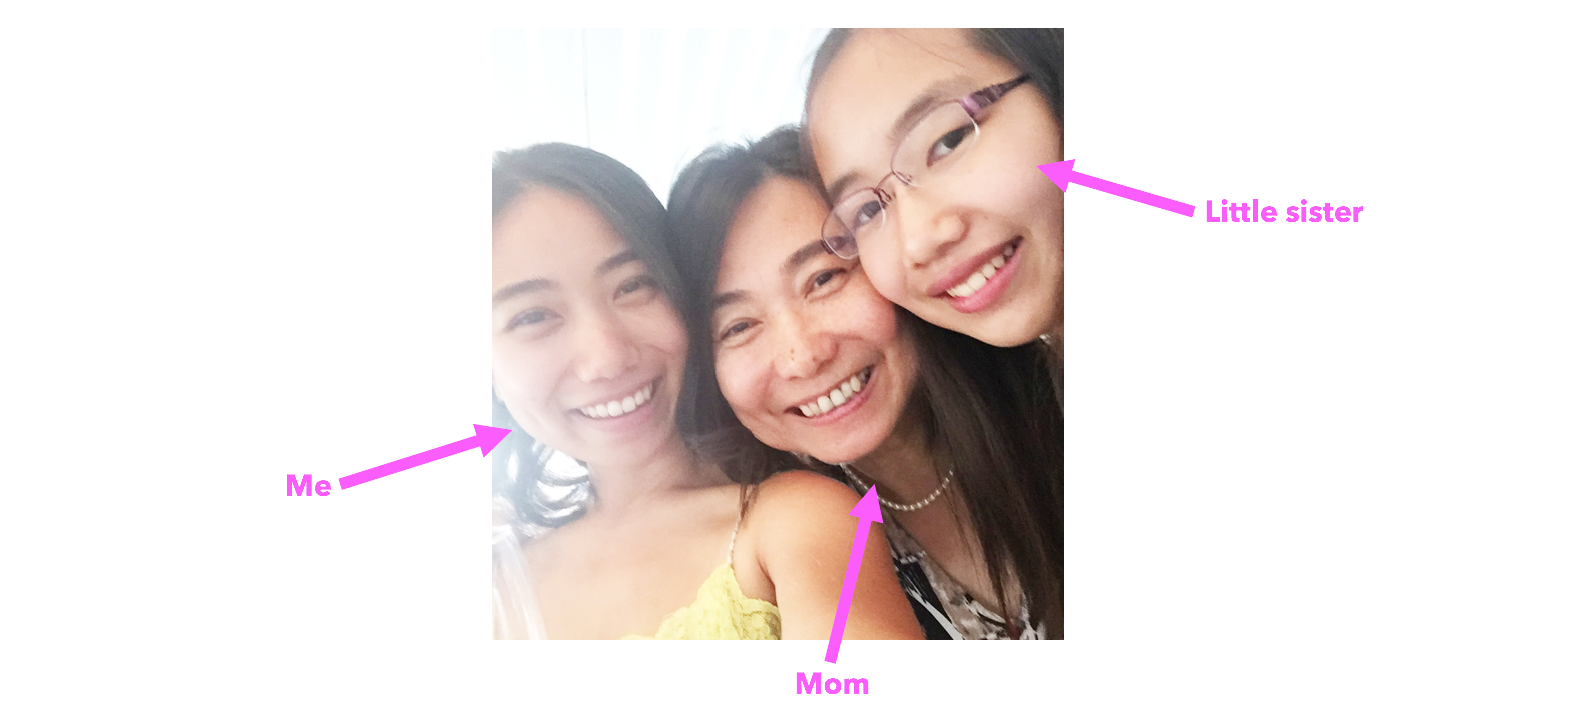
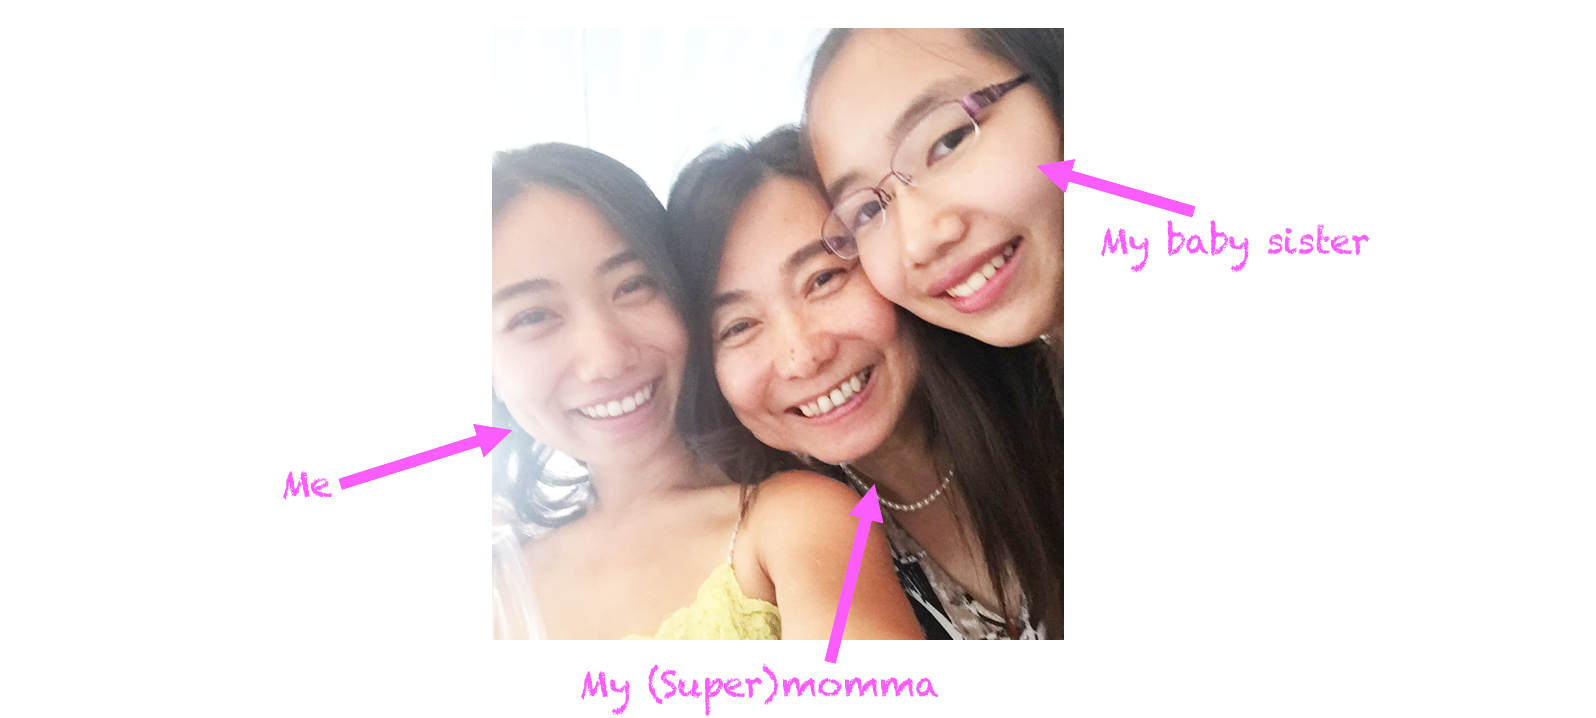
Hexo deploying to bettycakez.github.io

Changed region(s): [[0.6754, 0.2758, 0.8596, 0.3677], [0.3684, 0.9192, 0.5833, 1.0], [0.1842, 0.6435, 0.2149, 0.7047]]

diff --git a/2017/11/01/2017-11-01 role-models-in-STEM/index.html b/2017/11/01/2017-11-01 role-models-in-STEM/index.html
@@ -20,7 +20,7 @@
 
     <!--Open Graph Title-->
     
-        <meta property="og:title" content="Supermom, Programmer Extraordinaire"/>
+        <meta property="og:title" content="My Role Mom-del"/>
     
 
     <!--Open Graph Description-->
@@ -42,7 +42,7 @@
 
     <!-- Title -->
     
-    <title>Supermom, Programmer Extraordinaire - Betty Chang</title>
+    <title>My Role Mom-del - Betty Chang</title>
 
     <!-- Bootstrap Core CSS -->
     <link href="//maxcdn.bootstrapcdn.com/bootstrap/3.3.6/css/bootstrap.min.css" rel="stylesheet"/>
@@ -152,11 +152,11 @@
                 <div class="col-lg-8 col-lg-offset-2 col-md-10 col-md-offset-1">
                     <div class="post-heading">
                         <h1>
-                            Supermom, Programmer Extraordinaire
+                            My Role Mom-del
                         </h1>
                         
                             <h2 class="post-subheading">
-                                Role models in STEM
+                                A leading lady in STEM
                             </h2>
                             
                                 <span class="meta">
@@ -183,7 +183,7 @@
 
                                     <!-- Post Main Content -->
                                     <div class="col-lg-8 col-lg-offset-2 col-md-10 col-md-offset-1">
-                                        <p>Today, as per most days, I called my little sister on my way home. She had spent the day shadowing my Momma as part of Take Your Kids To Work Day and exclaimed excitedly, “Mom’s job is so cool!”</p>
+                                        <p>Today, as per most days, I called my little sister on my way home. She had spent the day shadowing my Momma as part of Take Your Kids To Work Day and exclaimed excitedly, “Momma’s job is so cool!”</p>
 <p>My Momma is a software engineer at one of Canada’s leading banks, a computer science graduate of Shanghai’s Jiaotong University, and also my biggest role model, caregiver, and supporter. But what’s more, she’s also a role model to my 14-year-old teenage sister and to other girls and young women aspiring to become an engineer and empowered leader in the workplace.</p>
 <p>So as my sister passed the phone off to Momma, citing she “had too much homework to finish”, I decided to partake in Take Your Kids to Work Day <strong>virtually</strong> by asking my Momma a few questions on her career as a fabulous women in STEM - Science, Technology, Engineering and Math. </p>
 <p><img src="/img/2017-11-01-role-models-in-STEM.png" alt="Role Models in STEM"></p>
@@ -193,7 +193,7 @@
 <p>I was very lucky that in my first job, my supervisor, a very smart and high-ranking man in the company, recognized and vouched for my good work <a href="http://www.heforshe.org/en" target="_blank" rel="external">(#HeforShe)</a> and I was given opportunities to go on work trips in Germany and in the UK in my first year, and promoted after my second. Whether in STEM or in any stage of your career or education, a good supervisor, mentor, and culture makes all the difference and as such, it is important to cultivate and invest in those relationships as well. </p>
 <p><span style="color: #0098CB"><strong><em>How is the culture at your current workplace for women?</em></strong></span><br>My company right now is very different from the first company I worked at. I immigrated to Canada in ‘89, studied English and took some additional CS courses at a local college while working a few customer service jobs, and afterwards found a programming role in the finance industry. I’ve been working as an engineer at big banks ever since, through meeting my husband and having my two beautiful children. The bank I currently work at has a great culture for women for a few reasons. They have great policies in place for maternity leave (which I made good use of when giving birth to my second daughter). Our leadership makes a conscious effort in promoting women into high-level positions, and at lower levels, women are well represented - in fact, my manager, director, and VP are all women. And within programming roles, I would say there’s a 40:60 ratio of girls to boys.  </p>
 <p><span style="color: #0098CB"><strong><em>What do you think needs to be done to reach gender parity in STEM fields?</em></strong></span><br>It starts with equal access to opportunities. I hear often that the reason why there aren’t as many girls in STEM education is because girls just don’t want to be engineers, and this simply isn’t true. There are many factors - political and social - that deter girls from even thinking about a career in STEM. So it starts with girls seeing STEM careers as not just careers for boys. Teachers, role models, and other influencers of young girls should foster and encourage interest and learning of STEM subjects at an early age. Teachers play such a big influence. You don’t know how often my children say they did well in a course because they liked their teacher. So educators, make curricula interesting so girls and boys can explore!</p>
-<p><span style="color: #0098CB"><strong><em>What advice would you give to girls interested in pursuing a STEM career?</em></strong></span><br>It’s true, women can do anything that men can do. So be confident, believe in yourself, and try out different courses, internships, and opportunities in STEM. Explore! Lastly, having a support system of curious, like-minded girl friends (and boy friends) will help you get brave through the challenges and barriers ahead!</p>
+<p><span style="color: #0098CB"><strong><em>What advice would you give to girls interested in pursuing a STEM career?</em></strong></span><br>It’s true, <strong>women can do anything that men can do.</strong> So be confident, believe in yourself, and try out different courses, internships, and opportunities in STEM. Explore! Lastly, having a support system of curious, like-minded girl friends (and boy friends) will help you get brave through the challenges and barriers ahead!</p>
 
 
                                             

diff --git a/archives/index.html b/archives/index.html
@@ -40,7 +40,7 @@
 
     <!-- Title -->
     
-    <title>Archives - Betty Chang</title>
+    <title>Archiv - Betty Chang</title>
 
     <!-- Bootstrap Core CSS -->
     <link href="//maxcdn.bootstrapcdn.com/bootstrap/3.3.6/css/bootstrap.min.css" rel="stylesheet"/>
@@ -150,7 +150,7 @@
         <div class="row">
             <div class="col-lg-8 col-lg-offset-2 col-md-10 col-md-offset-1">
                 <div class="site-heading">
-                    <h1>Archives</h1>
+                    <h1>Archiv</h1>
                 </div>
             </div>
         </div>
@@ -165,7 +165,7 @@
                 <div class="post-preview">
     <a href="/2017/11/01/2017-11-01 role-models-in-STEM/">
         <h1 class="post-title archive">
-            Supermom, Programmer Extraordinaire
+            My Role Mom-del
         </h1>
     </a>
     <p class="post-meta archive">

diff --git a/archives/2017/11/index.html b/archives/2017/11/index.html
@@ -40,7 +40,7 @@
 
     <!-- Title -->
     
-    <title>Archives: 2017/11 - Betty Chang</title>
+    <title>Archiv: 2017/11 - Betty Chang</title>
 
     <!-- Bootstrap Core CSS -->
     <link href="//maxcdn.bootstrapcdn.com/bootstrap/3.3.6/css/bootstrap.min.css" rel="stylesheet"/>
@@ -165,7 +165,7 @@
                 <div class="post-preview">
     <a href="/2017/11/01/2017-11-01 role-models-in-STEM/">
         <h1 class="post-title archive">
-            Supermom, Programmer Extraordinaire
+            My Role Mom-del
         </h1>
     </a>
     <p class="post-meta archive">

diff --git a/archives/page/2/index.html b/archives/page/2/index.html
@@ -40,7 +40,7 @@
 
     <!-- Title -->
     
-    <title>page - Archives - Betty Chang</title>
+    <title>page - Archiv - Betty Chang</title>
 
     <!-- Bootstrap Core CSS -->
     <link href="//maxcdn.bootstrapcdn.com/bootstrap/3.3.6/css/bootstrap.min.css" rel="stylesheet"/>
@@ -150,7 +150,7 @@
         <div class="row">
             <div class="col-lg-8 col-lg-offset-2 col-md-10 col-md-offset-1">
                 <div class="site-heading">
-                    <h1>Archives</h1>
+                    <h1>Archiv</h1>
                 </div>
             </div>
         </div>

diff --git a/archives/2017/index.html b/archives/2017/index.html
@@ -40,7 +40,7 @@
 
     <!-- Title -->
     
-    <title>Archives: 2017 - Betty Chang</title>
+    <title>Archiv: 2017 - Betty Chang</title>
 
     <!-- Bootstrap Core CSS -->
     <link href="//maxcdn.bootstrapcdn.com/bootstrap/3.3.6/css/bootstrap.min.css" rel="stylesheet"/>
@@ -165,7 +165,7 @@
                 <div class="post-preview">
     <a href="/2017/11/01/2017-11-01 role-models-in-STEM/">
         <h1 class="post-title archive">
-            Supermom, Programmer Extraordinaire
+            My Role Mom-del
         </h1>
     </a>
     <p class="post-meta archive">

diff --git a/blog/index.html b/blog/index.html
@@ -148,11 +148,11 @@
                 <div class="post-preview">
     <a href="/2017/11/01/2017-11-01 role-models-in-STEM/">
         <h2 class="post-title">
-            Supermom, Programmer Extraordinaire
+            My Role Mom-del
         </h2>
         
             <h3 class="post-subtitle">
-                Role models in STEM
+                A leading lady in STEM
             </h3>
         
     </a>

diff --git a/archives/2017/page/2/index.html b/archives/2017/page/2/index.html
@@ -40,7 +40,7 @@
 
     <!-- Title -->
     
-    <title>page - Archives: 2017 - Betty Chang</title>
+    <title>page - Archiv: 2017 - Betty Chang</title>
 
     <!-- Bootstrap Core CSS -->
     <link href="//maxcdn.bootstrapcdn.com/bootstrap/3.3.6/css/bootstrap.min.css" rel="stylesheet"/>

diff --git a/archives/2017/10/index.html b/archives/2017/10/index.html
@@ -40,7 +40,7 @@
 
     <!-- Title -->
     
-    <title>Archives: 2017/10 - Betty Chang</title>
+    <title>Archiv: 2017/10 - Betty Chang</title>
 
     <!-- Bootstrap Core CSS -->
     <link href="//maxcdn.bootstrapcdn.com/bootstrap/3.3.6/css/bootstrap.min.css" rel="stylesheet"/>

diff --git a/archives/2017/01/index.html b/archives/2017/01/index.html
@@ -40,7 +40,7 @@
 
     <!-- Title -->
     
-    <title>Archives: 2017/1 - Betty Chang</title>
+    <title>Archiv: 2017/1 - Betty Chang</title>
 
     <!-- Bootstrap Core CSS -->
     <link href="//maxcdn.bootstrapcdn.com/bootstrap/3.3.6/css/bootstrap.min.css" rel="stylesheet"/>

diff --git a/archives/2017/02/index.html b/archives/2017/02/index.html
@@ -40,7 +40,7 @@
 
     <!-- Title -->
     
-    <title>Archives: 2017/2 - Betty Chang</title>
+    <title>Archiv: 2017/2 - Betty Chang</title>
 
     <!-- Bootstrap Core CSS -->
     <link href="//maxcdn.bootstrapcdn.com/bootstrap/3.3.6/css/bootstrap.min.css" rel="stylesheet"/>

diff --git a/archives/2017/03/index.html b/archives/2017/03/index.html
@@ -40,7 +40,7 @@
 
     <!-- Title -->
     
-    <title>Archives: 2017/3 - Betty Chang</title>
+    <title>Archiv: 2017/3 - Betty Chang</title>
 
     <!-- Bootstrap Core CSS -->
     <link href="//maxcdn.bootstrapcdn.com/bootstrap/3.3.6/css/bootstrap.min.css" rel="stylesheet"/>

diff --git a/archives/2017/04/index.html b/archives/2017/04/index.html
@@ -40,7 +40,7 @@
 
     <!-- Title -->
     
-    <title>Archives: 2017/4 - Betty Chang</title>
+    <title>Archiv: 2017/4 - Betty Chang</title>
 
     <!-- Bootstrap Core CSS -->
     <link href="//maxcdn.bootstrapcdn.com/bootstrap/3.3.6/css/bootstrap.min.css" rel="stylesheet"/>
